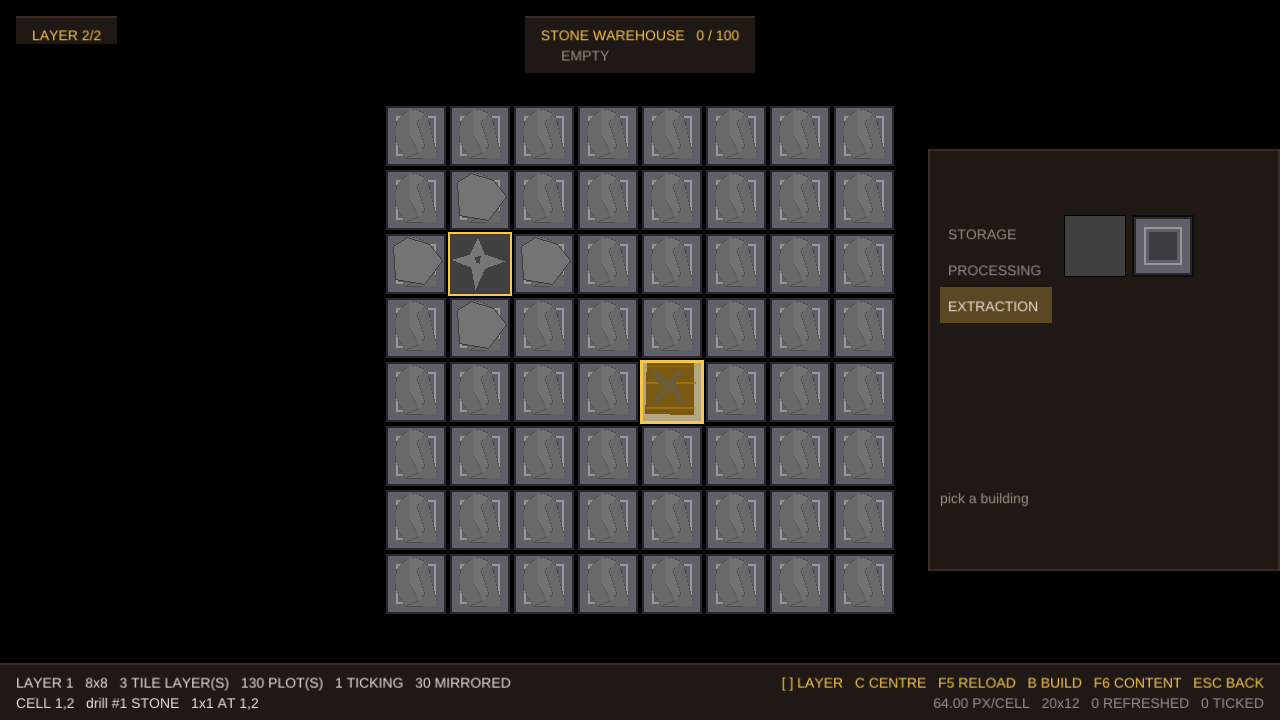
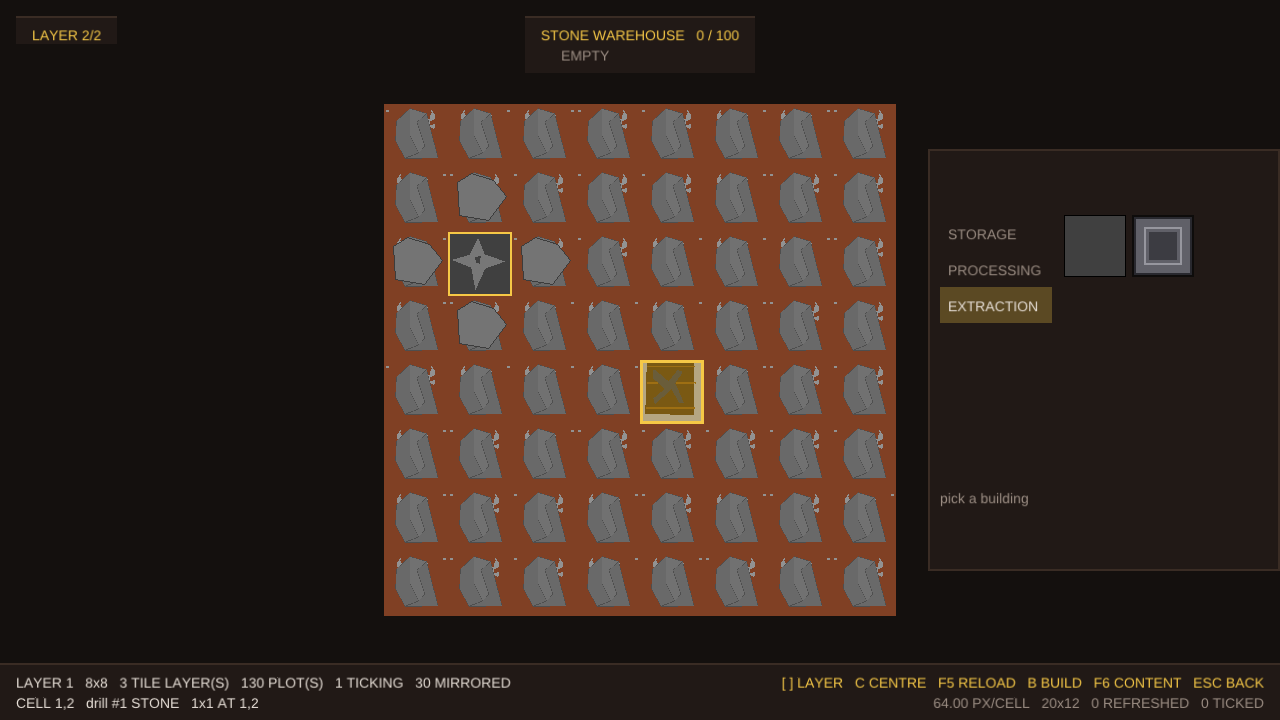
a frame that records more batches than the sprite batch has descriptor sets drew the floor with another texture; the pool is bigger now and going over is reported

Changed region(s): [[0.2812, 0.1222, 0.7188, 0.8556]]

diff --git a/tile2d/tests/test_render_offscreen.cpp b/tile2d/tests/test_render_offscreen.cpp
@@ -620,4 +620,67 @@ T2D_TEST(text_is_drawn_inside_the_box_its_pen_describes) {
                   max_y - min_y);
 }
 
+
+T2D_TEST(a_frame_with_many_batches_keeps_every_batch_on_its_own_texture) {
+    Fixture fixture = make_fixture(64);
+    if (!fixture.valid()) T2D_SKIP("no Vulkan device available");
+    Scope<SpriteBatch> batch = make_batch(fixture, 64);
+    T2D_REQUIRE(batch != nullptr);
+    Scope<ore::rhi::Sampler> sampler = make_sampler(fixture);
+    T2D_REQUIRE(sampler != nullptr);
+
+    // Two one-texel pictures, so a quad's colour says which texture it was drawn with.
+    ore::Image red = ore::Image::create(1, 1, 0u);
+    red.fill_rect(0, 0, 1, 1, ore::make_rgba(220, 40, 40));
+    ore::Image blue = ore::Image::create(1, 1, 0u);
+    blue.fill_rect(0, 0, 1, 1, ore::make_rgba(40, 40, 220));
+    Scope<ore::rhi::Texture> red_texture = fixture.context->create_texture(red, false, "test.red");
+    Scope<ore::rhi::Texture> blue_texture = fixture.context->create_texture(blue, false, "test.blue");
+    T2D_REQUIRE(red_texture != nullptr && blue_texture != nullptr);
+    const Aabb2 whole{Vec2{0.0f, 0.0f}, Vec2{1.0f, 1.0f}};
+
+    // **More batches than the batch has descriptor sets.** Each batch binds its own texture and draws
+    // one band of the picture; if a frame's sets wrap, the earliest bands come out wearing the last
+    // texture bound instead of their own - which is the bug that made a whole floor render as another
+    // picture while a build animation ran (a frame records one batch per distinct picture on screen
+    // plus one per plot going up). Sixteen is well past any pool this batch would be handed by mistake.
+    constexpr u32 kBatches = 16;
+    VkClearValue clear{};
+    clear.color = {{0.0f, 0.0f, 0.0f, 1.0f}};
+    ore::RenderFrame& frame = fixture.renderer->begin_frame(1.0f / 60.0f);
+    fixture.renderer->begin_pass(clear, 1.0f);
+    for (u32 index = 0; index < kBatches; ++index) {
+        const bool even = index % 2 == 0;
+        batch->begin(frame, Vec2{32.0f, 32.0f}, Vec2{64.0f, 64.0f}, even ? *red_texture : *blue_texture,
+                     sampler->handle());
+        const f32 y = static_cast<f32>(index) * 4.0f;
+        batch->draw_quad(Aabb2{Vec2{0.0f, y}, Vec2{64.0f, y + 3.0f}}, whole, 0xFFFFFFFFu);
+        batch->end();
+    }
+    fixture.renderer->end_pass();
+    fixture.renderer->end_frame();
+    fixture.renderer->wait_idle();
+
+    T2D_CHECK_EQ(batch->batches_this_frame(), kBatches);
+    T2D_CHECK_EQ(batch->batches_over(), 0u);   // no batch was recorded past the sets there are
+
+    const ore::Image shot = fixture.context->read_render_target(fixture.renderer->target());
+    T2D_REQUIRE(!shot.empty());
+    // Which end of the readback is which does not matter: what matters is that **both** pictures are
+    // there. A wrapped pool leaves every band wearing the last texture bound, so one of the two
+    // colours disappears entirely - and that is what this counts.
+    u32 reds = 0;
+    u32 blues = 0;
+    for (u32 y = 0; y < shot.height; ++y) {
+        for (u32 x = 0; x < shot.width; ++x) {
+            const ore::Color pixel = ore::Color::from_packed(shot.pixel(x, y));
+            if (pixel.r > 150 && pixel.b < 90) ++reds;
+            if (pixel.b > 150 && pixel.r < 90) ++blues;
+        }
+    }
+    T2D_CHECK_MSG(reds > 0, "no band came out red: every batch sampled another one's texture");
+    T2D_CHECK_MSG(blues > 0, "no band came out blue: every batch sampled another one's texture");
+    T2D_CHECK(reds > 100 && blues > 100);
+}
+
 T2D_TEST_MAIN

diff --git a/tile2d/src/render/sprite_batch.cpp b/tile2d/src/render/sprite_batch.cpp
@@ -101,9 +101,14 @@ Scope<SpriteBatch> SpriteBatch::create(ore::rhi::GraphicsContext& context, const
     batch->pipeline_ = ore::rhi::GraphicsPipeline::create(context.device(), pipeline_desc);
     if (batch->pipeline_ == nullptr) return nullptr;
 
-    // Enough sets that a frame's batches never collide and a set comes back around only after
-    // several frames have been retired by the GPU.
-    constexpr u32 kDescriptorSetCount = 8;
+    // Enough sets that a frame's batches never collide and a set comes back around only after several
+    // frames have been retired by the GPU. **This has to be more than the batches one frame records**:
+    // the sets are handed out round robin and a set is written when it is bound, so a frame that runs
+    // past the end rewrites a set an earlier draw is still using - and that draw comes out wearing the
+    // wrong texture. Eight was not enough: the world view records one batch per distinct picture on
+    // screen plus one per plot going up, and it went past eight the first time a build animation ran
+    // (the whole floor came out as something else). A frame that gets close is reported, not silent.
+    constexpr u32 kDescriptorSetCount = 64;
     const VkDescriptorPoolSize pool_size{VK_DESCRIPTOR_TYPE_COMBINED_IMAGE_SAMPLER, kDescriptorSetCount};
     batch->descriptor_pool_ = ore::rhi::DescriptorPool::create(
         context.device(), ore::ConstSpan<VkDescriptorPoolSize>(&pool_size, 1), kDescriptorSetCount);
@@ -144,7 +149,22 @@ void SpriteBatch::begin(ore::RenderFrame& frame, const ore::Mat4& view_projectio
     vertices_ = staging_.data();
 
     // A fresh set per batch: the write below is immediate, so sharing one set between the batches
-    // of a frame would leave every draw sampling the last texture written.
+    // of a frame would leave every draw sampling the last texture written. A frame that runs past the
+    // sets there are rewrites the first ones, and those draws come out wearing the wrong texture - so
+    // it is counted and said out loud rather than left to be noticed on screen.
+    if (frame_number_ != frame.number) {
+        frame_number_ = frame.number;
+        batches_this_frame_ = 0;
+    }
+    ++batches_this_frame_;
+    if (batches_this_frame_ > descriptor_sets_.size()) {
+        if (batches_this_frame_ == descriptor_sets_.size() + 1) {
+            T2D_WARN("sprite batch: a frame recorded more than {} batches, so its first draws sample another "
+                     "batch's texture (raise kDescriptorSetCount)",
+                     descriptor_sets_.size());
+        }
+        ++batches_over_;
+    }
     ore::rhi::DescriptorSet& descriptor_set = descriptor_sets_[next_descriptor_set_];
     next_descriptor_set_ = (next_descriptor_set_ + 1) % descriptor_sets_.size();
     descriptor_set.write_texture(0, atlas, sampler);

diff --git a/tile2d/include/t2d/render/sprite_batch.h b/tile2d/include/t2d/render/sprite_batch.h
@@ -97,6 +97,11 @@ public:
     [[nodiscard]] u32 dropped_quads() const { return dropped_quads_; }
     [[nodiscard]] u32 max_quads() const { return max_quads_; }
     [[nodiscard]] u32 vertices_uploaded() const { return quad_count_ * 4u; }
+    /// How many batches the frame being recorded has begun. More of them than the batch has descriptor
+    /// sets means its earliest draws sample another batch's texture, which is worth knowing.
+    [[nodiscard]] u32 batches_this_frame() const { return batches_this_frame_; }
+    /// How many batches were begun past the sets there are, since this batch was created.
+    [[nodiscard]] u32 batches_over() const { return batches_over_; }
 
 private:
     SpriteBatch() = default;
@@ -114,6 +119,12 @@ private:
     /// wearing the font atlas.
     std::vector<ore::rhi::DescriptorSet> descriptor_sets_;
     usize next_descriptor_set_ = 0;
+    /// Which frame the count below belongs to - the renderer hands out the same RenderFrame object every
+    /// frame, so its monotonic number is what says a new one has begun - and how many batches it has
+    /// begun so far.
+    u64 frame_number_ = 0;
+    u32 batches_this_frame_ = 0;
+    u32 batches_over_ = 0;
 
     /// Quads are staged in this CPU buffer and copied into the frame ring by end() with their exact
     /// size. Writing straight into a worst case slice of the ring wastes most of it (two batches per

diff --git a/tile2d/docs/GAME_DESIGN.md b/tile2d/docs/GAME_DESIGN.md
@@ -1410,31 +1410,28 @@ place_block:: / placement1:: / x:111... subobject:: / container:: / items:["aaa"
   的两条分支；层构建时对钻头强制、报告里点名）；套件 **31 个测试**全绿（release / debug / asan / tsan / server-only
   31/31、no-renderer 11/11、Ore 13/13）。
 
-### M2 交付状态（二十三）：石头的硬度与掉落、钻头的建造时间（本体内容）
+### M2 交付状态（二十四）：建造动画把整张地板画错贴图的 bug（已修，含回归测试）
 
-设计者的话："设置好石头的hardness(=1)和drop，设置钻头建造时间为5s"。
+设计者报的："建造时整个地图的泥地板都被错误渲染成了其他的贴图"。
 
-* **`content/ores.ecfg`**：`ore:: stone::` 加上 `hardness:1` 与 `drop:"stone"`——石头硬度 1，挖出来的是石头。
-* **`content/drops.ecfg`（新）**：`drop:: stone::`，用 `art/item_stone.png`。掉落物是设计者自己的种类（§1.25：
-  "躺在地上、自己不变化、能被指针拖着走"），石头矿石的 `drop` 指的就是它；**图沿用了石头物品那张**（同一块石头，
-  在地上和在被搬着的时候长得一样）——要单独画一张，换掉它的 `image` 即可。
-* **`content/drills.ecfg`**：`building:: time:5`——石头钻头现在要**建 5 秒**，所以放下之后会走那条扫描线。
-* **实测**（真机无头）：双击选中仓库 → 建造栏 `EXTRACTION` → 选 `STONE` 钻头 → 点地图一格，日志：
+* **原因**：`SpriteBatch` 的 descriptor set 是**轮流用**的（一次 `begin` 写一次贴图，写是立即生效的），池子只有
+  **8 个**（`kDescriptorSetCount = 8`，注释写着"够一帧的批次用了"）。世界视图一帧的批次数是"屏幕上**每种不同的贴图**
+  一个 + **每个正在建造的地块**一个 + 界面若干"——没有建造动画时正好压着 8，**一旦有东西在建就超了**：轮回到第一个
+  set 时把它重写了，而第一个 set 正被**地板那一批**用着，于是整张地板用上了别的贴图。这就是"只在建造时出错"的原因。
+* **修法**：① 池子 8 → **64**，并在注释里写清"必须多于一帧的批次数"，以及八为什么不够；② **不再让这种事静默**——每帧
+  记录批次数（用 `RenderFrame::number` 认帧界，因为渲染器每帧给的是同一个对象），一旦超过池子就 `T2D_WARN` 一次并
+  计数（新增 `batches_this_frame()` / `batches_over()` 两个查询）。
+* **回归测试**（`test_render_offscreen`，真设备上离屏渲染 + 读像素）：一帧录 **16 个批次**，红蓝两张 1×1 贴图交替，
+  每批画一条横带——若池子轮回，最早那几条带会穿上最后绑定的贴图，于是**两种颜色里必然少一种**。测试断言两种颜色都在、
+  且 `batches_over() == 0`。**实测它能抓住这个 bug**：把 `kDescriptorSetCount` 临时改回 8，这条用例当场失败
+  （`batches_over() == 8`）；改回 64 就过。
+* **修复前后同一时刻的截图对比**（建造开始后 2 秒）：修之前整张地板是暗色方块（错贴图），修之后是正常的泥土贴图，
+  只有正在建的那一格显示"扫到一半"的钻头贴图。
+* **验证**：`tools/verify.sh` **7/7 全绿**；套件 **32 个测试全绿**；`test_render_offscreen` 10 → **11 用例 / 71 → 76 断言**。
+  本体表不变（游戏自己的代码没动）：**927 节 / 2923 符号 / 11273 重定位 / 1.44 MiB**；debug 表 6571 → **6576 / 22340 /
+  30440 / 4.20 MiB**。
 
-```
-world: selected warehouse #1 at 4,4
-world: the drill 'stone' at 1,2 mines ore 'stone' (hardness 1.00 / power 1.00 = 1.00s per drop of 'stone')
-world: built stone at 1,2
-```
-
-  也就是说这颗钻头**不再是空转的**：每 1 秒往外丢一块石头（hardness ÷ dig_power = 1 ÷ 1）。放下去 2 秒时抓的一张
-  图能看到扫描线走到一半，8 秒时抓的图里钻头旁边的格子之间躺着几块石头掉落物。
-* **单测**：`test_content_pack` 18 用例 / 278 → **285 断言**——本体包现在是 **7 张图**（drills 的两张在最前、接着是
-  drops、floors、items、ores、warehouses），并钉住：石头矿石 `hardness == 1`、`drop == "stone"`、**且这个名字在
-  注册表里真的有对应的掉落物**（§1.26 的规则就是按名字找 `drop::`）、石头钻头 `building.seconds == 5`。
-  套件 **32 个测试**全绿。
-
-![石头钻头在挖矿：旁边的格子之间躺着它丢出来的石头掉落物](../games/mine/docs/images/world_stone_drill_mining_en.png)
+![修好之后：建造中（扫描线在钻头那一格），地板仍是泥土贴图](/mis/oredusty/tile2d/games/mine/docs/images/world_stone_drill_mining_en.png)
 
 ### M1 验收标准（已满足）
 
@@ -1657,6 +1654,15 @@ world: built stone at 1,2
 
 | 版本 | 变更 |
 |---|---|
+| M2.27 | **修：建造时整张地板被画成别的贴图**（设计者报的 bug）。原因：`SpriteBatch` 的 descriptor set 轮流用、池子只有
+  **8 个**，而世界视图一帧的批次数 = 屏幕上每种不同贴图一个 + **每个正在建造的地块一个** + 界面若干——没有建造动画时正好
+  压着 8，**一有东西在建就超**，轮回到第一个 set 时把它重写，而它正被地板那一批用着，于是整张地板换上别的贴图（所以只在
+  建造时出错）。修法：池子 8 → **64**（注释写清为什么必须多于一帧的批次数），并且**不再静默**——每帧记批次数（用
+  `RenderFrame::number` 认帧界），超了就 `T2D_WARN` 一次并计数（新增 `batches_this_frame()` / `batches_over()`）。
+  **回归测试**：`test_render_offscreen` 新增一条——一帧录 16 个批次、红蓝贴图交替、每批一条横带，池子轮回时两种颜色必少
+  一种；实测把池子临时改回 8 该用例当场失败（`batches_over() == 8`），改回 64 就过。`test_render_offscreen` 10 → 11 用例 /
+  71 → 76 断言；套件 **32 个测试**全绿。本体表不变 **927 / 2923 / 11273 / 1.44 MiB**，debug 6571 → **6576 / 22340 / 30440 /
+  4.20 MiB** |
 | M2.26 | **石头的硬度与掉落、钻头的建造时间**（本体内容）：`ore:: stone::` 加 `hardness:1` + `drop:"stone"`；新增
   `content/drops.ecfg`（`drop:: stone::`，图沿用 `art/item_stone.png`——同一块石头在地上与在手里长得一样）；
   `drill:: stone::` 的 `building::` 加 `time:5`（放下后走扫描线）。实测日志：

diff --git a/tile2d/docs/TABLES.md b/tile2d/docs/TABLES.md
@@ -241,7 +241,7 @@ GCC 在 `-O3` 下给 `std::__format` 的 sink 吐出了 253 字节与 744 字节
 | **本体代码进表并运行** | `mine_core` 的 `registry.cpp` 编成表：注册两个 item（id 1、2）、重复注册 id 不变，`game_probe()` = 110 |
 | **模组覆盖本体表里的函数** | 加一张模组表后 `game_probe()` = **112**，报告 1 条覆盖（`game_bonus`，game_mod ← mine），`find_previous()` = 5 |
 | **表回调宿主** | 表里没定义的 `host_service` 与 `t2d::log_enabled` 由宿主解析（后者超距，走了桩） |
-| **整块本体进表，可执行文件变启动器** | 表由工具链编（`codetab build`）：release **927 节 / 2923 符号 / 11273 重定位 / 1.44 MiB**；debug **6571 / 22324 / 30368 / 4.19 MiB**。启动器合并后调用 `mine_game_main`，游戏照常跑（窗口、Vulkan、内容、多语言） |
+| **整块本体进表，可执行文件变启动器** | 表由工具链编（`codetab build`）：release **927 节 / 2923 符号 / 11273 重定位 / 1.44 MiB**；debug **6576 / 22340 / 30440 / 4.20 MiB**。启动器合并后调用 `mine_game_main`，游戏照常跑（窗口、Vulkan、内容、多语言） |
 | **构建时统一 ABI** | 本体表与启动器记录同指纹（`bdcb9b070ab30e78`）；`-O0`/`-O2`/`-O3 -DNDEBUG` 三种构建指纹相同、完全合并；另一个 `std::string` ABI、头文件改动、CPU 缺特性三种情形**拒绝并指名**（§5.6、[`ABI.md`](ABI.md)） |
 | **一份定义两个函数体：构建期折叠，加载期报告** | 同一个 vague linkage 函数在 `-O3` 下可以有两份不同机器码（实测 253 / 744 字节）。`codetab build` 先链接，表里只剩一份（9 个函数少掉 55 份死拷贝，渲染逐像素相同）；`codetab pack` 原样打包的仍会在加载时报出来，被丢掉的拷贝连同它的重定位一起丢，越界即构建失败 |
 | **模组表端到端** | `--table mods/demo_mod/mod.codetab`：`mine_game_banner` 被 `demo_mod` 顶掉（报告 1 条覆盖），游戏自己的调用改道，输出从 `Mine, unmodified` 变成 `Mine, modded` |

diff --git a/tile2d/README.md b/tile2d/README.md
@@ -65,7 +65,7 @@ without Vulkan, GLFW or the game — the split that lets a dedicated server exis
     tests/test_kcp                11 cases / 213 checks  reliability over a lossy link, 1 MiB transfer, wire format
     tests/test_protocol           15 cases /1265 checks  framing, every payload, truncation, the shared-memory rings
     tests/test_sprite_projection   2 cases /  29 checks  the 2D projection, without a GPU
-    tests/test_render_offscreen   10 cases /  71 checks  real rendering with pixel readback, text inside its line box, and a 512² map culled to the view (skips without a device)
+    tests/test_render_offscreen   11 cases /  76 checks  real rendering with pixel readback, text inside its line box, and a 512² map culled to the view (skips without a device)
     games/mine/tests/test_mine_menu      11 cases / 168 checks  the start screen as a state machine
     games/mine/tests/test_registry       10 cases / 132 checks  content ids and the per-save name -> id table
     games/mine/tests/test_content_loader  6 cases /  36 checks  .ecfg content file -> registry -> save table
